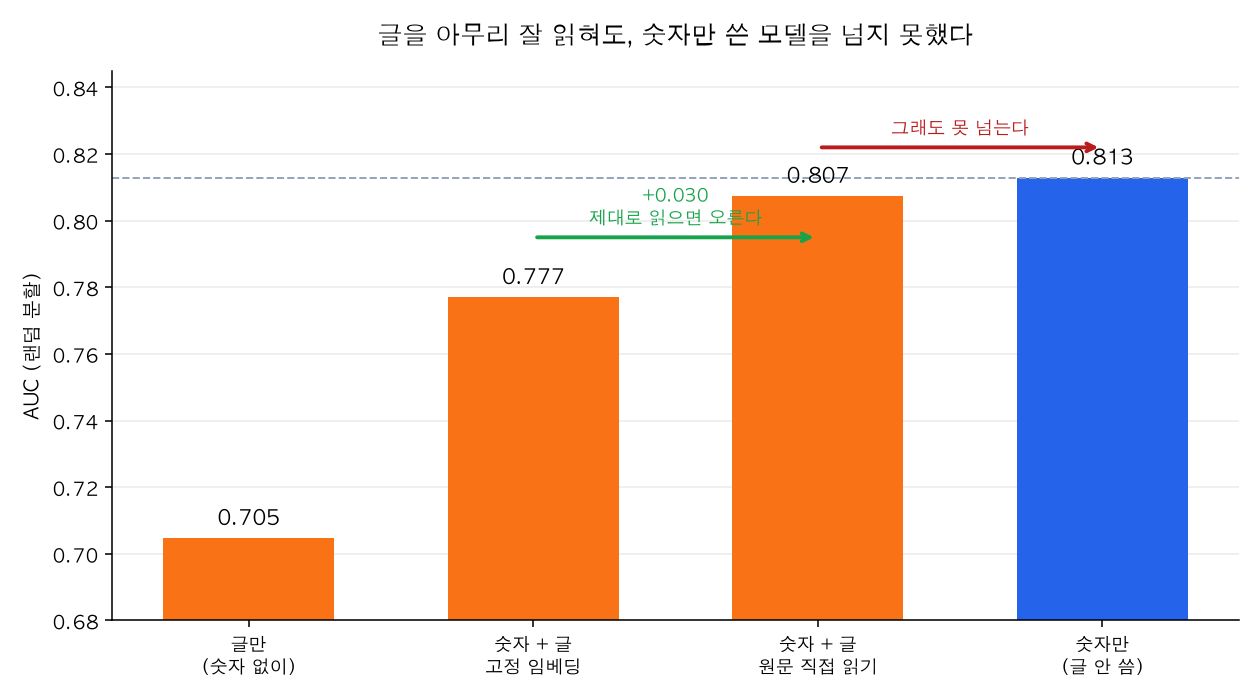
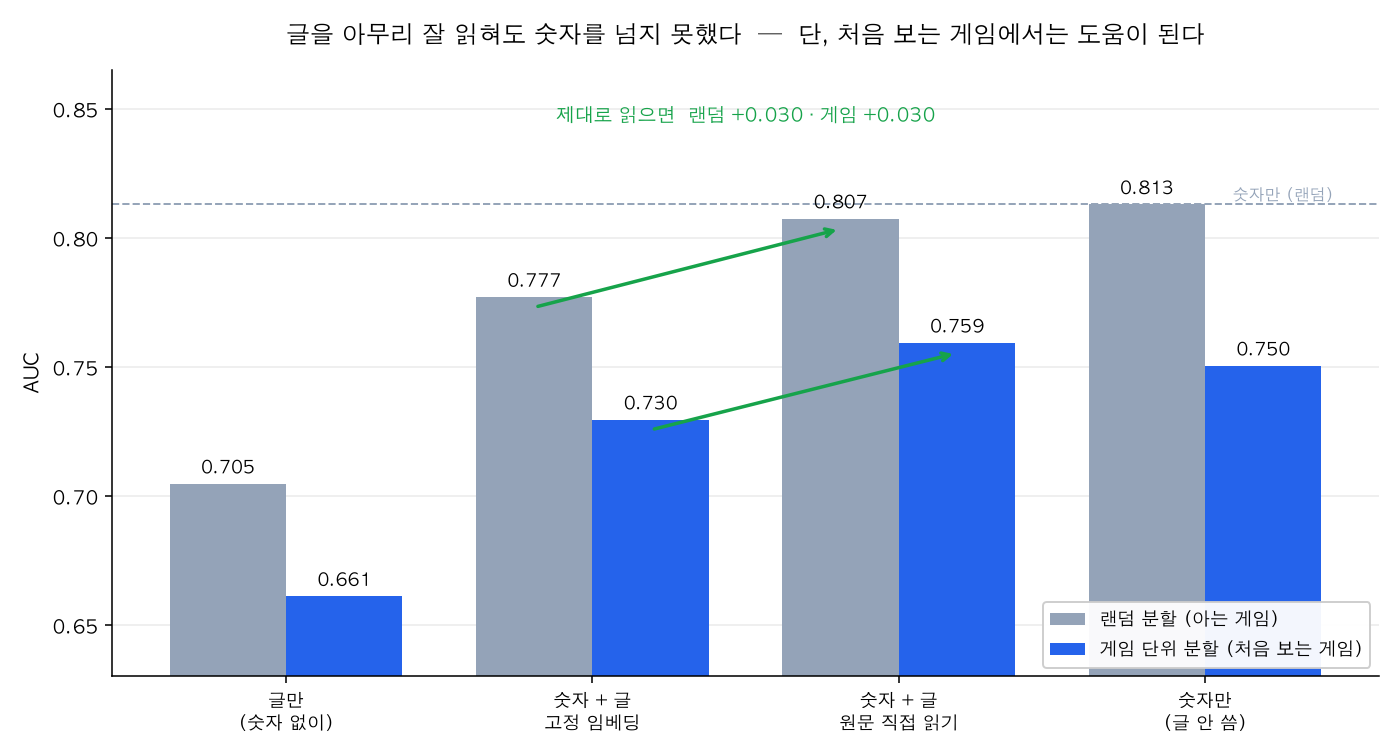
multimodal 게임분할 결과 반영 — 실험 완료
AutoGluon(multimodal) 게임분할 0.7593 ± 0.046 (코랩 T4, 5조각, 2.6시간)

세 가지가 한꺼번에 확인됐다
1. 고정 임베딩은 글을 덜 활용하고 있었다
     랜덤 0.777 -> 0.807  (+0.030)
     게임 0.730 -> 0.759  (+0.030)   두 분할에서 폭이 정확히 같다
2. 아는 게임에서는 여전히 숫자를 못 넘는다   0.807 < 0.813
3. 처음 보는 게임에서는 넘는다              0.759 > 0.750
   낙폭도 -0.048 로 숫자만(-0.063)보다 작다

4절 발견 3(말은 게임을 건너뛰어도 통한다)이 가장 좋은 텍스트 모델에서도
그대로 재현됐다. 결론이 한 단계 더 단단해졌다.

한계에서 'multimodal 은 랜덤분할만' 을 제거(이제 측정됨).
그림 05 를 두 분할 비교로 갱신.

diff --git a/src/figures.py b/src/figures.py
@@ -125,32 +125,34 @@ def fig_text_ladder():
     """
     import matplotlib.pyplot as plt
 
-    items = [
-        ("글만\n(숫자 없이)",            0.7047, C_TEXT),
-        ("숫자 + 글\n고정 임베딩",        0.7770, C_TEXT),
-        ("숫자 + 글\n원문 직접 읽기",     0.8074, C_TEXT),
-        ("숫자만\n(글 안 씀)",           0.8129, C_GROUP),
-    ]
-    names = [i[0] for i in items]; vals = [i[1] for i in items]; cols = [i[2] for i in items]
+    names = ["글만\n(숫자 없이)", "숫자 + 글\n고정 임베딩",
+             "숫자 + 글\n원문 직접 읽기", "숫자만\n(글 안 씀)"]
+    rand  = [0.7047, 0.7770, 0.8074, 0.8129]
+    grp   = [0.6611, 0.7295, 0.7593, 0.7504]
+    x = np.arange(len(names)); w = 0.38
 
-    fig, ax = plt.subplots(figsize=(9, 5))
-    bars = ax.bar(range(len(items)), vals, color=cols, width=.6)
-    for i, v in enumerate(vals):
-        ax.text(i, v + .004, f"{v:.3f}", ha="center", fontsize=11, fontweight="bold")
+    fig, ax = plt.subplots(figsize=(10, 5.4))
+    ax.bar(x - w/2, rand, w, label="랜덤 분할 (아는 게임)", color=C_RANDOM)
+    ax.bar(x + w/2, grp,  w, label="게임 단위 분할 (처음 보는 게임)", color=C_GROUP)
+    for i, (a_, b_) in enumerate(zip(rand, grp)):
+        ax.text(i - w/2, a_ + .004, f"{a_:.3f}", ha="center", fontsize=9)
+        ax.text(i + w/2, b_ + .004, f"{b_:.3f}", ha="center", fontsize=9)
 
-    ax.annotate("", xy=(2, 0.795), xytext=(1, 0.795),
-                arrowprops=dict(arrowstyle="->", color="#16a34a", lw=2))
-    ax.text(1.5, 0.799, "+0.030\n제대로 읽으면 오른다", ha="center", fontsize=9.5,
-            color="#16a34a")
-    ax.annotate("", xy=(3, 0.822), xytext=(2, 0.822),
-                arrowprops=dict(arrowstyle="->", color="#b91c1c", lw=2))
-    ax.text(2.5, 0.826, "그래도 못 넘는다", ha="center", fontsize=9.5, color="#b91c1c")
+    # 고정 임베딩 -> 원문 직접 읽기 : 두 분할에서 같은 폭으로 오른다
+    for off, vals, col in [(-w/2, rand, "#16a34a"), (w/2, grp, "#16a34a")]:
+        ax.annotate("", xy=(2 + off, vals[2] - .004), xytext=(1 + off, vals[1] - .004),
+                    arrowprops=dict(arrowstyle="->", color=col, lw=1.8))
+    ax.text(1.5, 0.845, "제대로 읽으면  랜덤 +0.030 · 게임 +0.030",
+            ha="center", fontsize=10, color="#16a34a", fontweight="bold")
 
     ax.axhline(0.8129, color="#94a3b8", ls="--", lw=1)
-    ax.set_xticks(range(len(items))); ax.set_xticklabels(names, fontsize=9.5)
-    ax.set_ylabel("AUC (랜덤 분할)"); ax.set_ylim(0.68, 0.845)
-    ax.set_title("글을 아무리 잘 읽혀도, 숫자만 쓴 모델을 넘지 못했다",
-                 fontsize=13, pad=14)
+    ax.text(3.42, 0.8145, "숫자만 (랜덤)", fontsize=8, color="#94a3b8", ha="right")
+
+    ax.set_xticks(x); ax.set_xticklabels(names, fontsize=9.5)
+    ax.set_ylabel("AUC"); ax.set_ylim(0.63, 0.865)
+    ax.set_title("글을 아무리 잘 읽혀도 숫자를 넘지 못했다  —  단, 처음 보는 게임에서는 도움이 된다",
+                 fontsize=12.5, pad=14)
+    ax.legend(loc="lower right", fontsize=9, framealpha=.95)
     ax.grid(axis="y", alpha=.25); ax.set_axisbelow(True)
     for s in ("top", "right"): ax.spines[s].set_visible(False)
     FIGURES.mkdir(parents=True, exist_ok=True)

diff --git a/docs/02_학습결과서.md b/docs/02_학습결과서.md
@@ -19,7 +19,7 @@
 |---|---|
 | 글에 신호가 있나? | **있다.** 글만 봐도 AUC 0.70 |
 | 그럼 숫자에 글을 더하면 오르나? | **거의 안 오른다.** 0.813 → 0.810 |
-| 글을 더 잘 읽히면? | **오르긴 한다** (0.777 → 0.807). **그래도 숫자(0.813)를 못 넘는다** |
+| 글을 더 잘 읽히면? | **두 분할 모두 +0.030.** 아는 게임에선 숫자를 못 넘지만(0.807<0.813), **처음 보는 게임에선 넘는다**(0.759>0.750) |
 | 왜 안 오르나? | 글이 아는 걸 **숫자가 이미 알고 있어서** |
 | 그럼 글은 쓸모없나? | **아니다.** 처음 보는 게임에서는 글이 이긴다 |
 | 모델은 뭘 보고 판단하나? | 글 > 장르 > 추천여부 > 리뷰 수 > 플레이 시간 (SHAP) |
@@ -282,38 +282,49 @@ Fitting with cpus=1, gpus=0
 
 리뷰 **원문**을 언어모델에 직접 읽히면, 미리 뽑아둔 고정 임베딩보다 나은가?
 
-비교 대상은 우리 **MLP(숫자+고정임베딩) 랜덤분할 0.777** 입니다.
-
-| 모델 | 글을 다루는 방식 | 랜덤분할 |
-|---|---|---|
-| MLP (숫자+글) | 미리 뽑은 임베딩 **고정** | 0.777 |
-| **AutoGluon (multimodal)** | 언어모델을 **우리 문제에 맞게 재학습** | **0.807** |
-| 우리 부스팅 (숫자만) | 글을 아예 안 씀 | **0.813** |
-
-**두 가지가 동시에 나왔습니다.**
-
-```
-원문 직접 읽기  vs  고정 임베딩      +0.030   ← 글을 제대로 읽으면 확실히 낫다
-원문 직접 읽기  vs  부스팅(숫자만)   −0.006   ← 그래도 숫자를 못 넘는다
-```
+| 모델 | 글을 다루는 방식 | 랜덤분할 | 게임 단위 |
+|---|---|---|---|
+| MLP (숫자+글) | 미리 뽑은 임베딩 **고정** | 0.777 | 0.730 ± 0.028 |
+| **AutoGluon (multimodal)** | 언어모델을 **재학습** | **0.807** | **0.759 ± 0.046** |
+| 우리 부스팅 (숫자만) | 글을 아예 안 씀 | 0.813 | 0.750 ± 0.041 |
 
 ![글을 읽는 방식](../reports/figures/05_글을읽는방식.png)
 
-**1) 고정 임베딩은 글을 덜 활용하고 있었습니다.**
-미리 뽑아둔 벡터를 그대로 쓰는 것보다, 언어모델을 우리 문제에 맞게 재학습하니
-**+0.030** 올랐습니다. 4절에서 "글을 더해도 안 오른다" 고 한 것은
-**일부는 임베딩을 고정한 탓**이었습니다.
+**세 가지가 한꺼번에 나왔습니다.**
 
-**2) 그런데 최선을 다해 읽혀도 숫자를 못 넘었습니다.**
-0.807 < 0.813. 차이 −0.006은 사실상 같은 수준입니다.
+**1) 고정 임베딩은 글을 덜 활용하고 있었습니다.**
+
+```
+랜덤 분할    0.777 → 0.807    +0.030
+게임 단위    0.730 → 0.759    +0.030
+```
+
+**두 분할에서 폭이 정확히 같습니다.** 우연이 아니라 재현되는 효과입니다.
+4절에서 "글을 더해도 안 오른다" 고 한 것은 **일부는 임베딩을 고정한 탓**이었습니다.
+
+**2) 그런데 아는 게임에서는 여전히 숫자를 못 넘었습니다.**
+
+```
+랜덤 분할    multimodal 0.807  <  부스팅(숫자만) 0.813    −0.006
+```
+
+**3) 처음 보는 게임에서는 넘었습니다.**
+
+```
+게임 단위    multimodal 0.759  >  부스팅(숫자만) 0.750    +0.009
+```
+
+낙폭도 **−0.048** 로 숫자만 쓴 부스팅(−0.063)보다 작습니다.
+**4절 발견 ③(말은 게임을 건너뛰어도 통한다)이 가장 좋은 텍스트 모델에서도 그대로 재현**됐습니다.
 
 > **이 실험이 값어치 있었던 이유** — 이 결과가 없었다면
 > **"임베딩을 대충 써서 안 오른 것 아니냐"** 는 반박에 답할 수 없었습니다.
-> 이제 답할 수 있습니다: **글을 가장 잘 읽는 방법으로 읽혀도, 숫자만 쓴 모델과 같았다.**
-> 우리 결론이 오히려 더 단단해졌습니다.
+> 이제 답할 수 있습니다:
+>
+> **글을 가장 잘 읽는 방법으로 읽혀도, 아는 게임에서는 숫자를 못 넘었다.**
+> **다만 처음 보는 게임에서는 글이 이겼다 — 그 방향은 더 뚜렷해졌다.**
 
-**측정 조건** — 코랩 T4 GPU, 30분 제한, 영어 67,112행, 랜덤 분할.
-게임 단위 분할은 5배 비용(2~3시간)이라 돌리지 않았습니다.
+**측정 조건** — 코랩 T4 GPU, 조각당 30분 제한, 영어 67,112행, 5조각(총 2.6시간).
 
 ### 부딪힌 문제 네 가지
 
@@ -392,7 +403,7 @@ predict_one(review="...", playtime_at_review_min=25, ...)
 | **근거 모델이 다름** | 확률은 신경망이 내고 근거(SHAP)는 트리 모델이 만듭니다. 두 모델의 성능이 거의 같아 결론은 공유되지만, 개별 리뷰에서 근거와 확률이 미세하게 어긋날 수 있습니다 |
 | **글 기여도의 해석** | SHAP에서 글이 1위지만, 이는 "모델이 많이 쓴다"는 뜻이지 "없으면 안 된다"는 뜻이 아닙니다 (6절 참조) |
 | **AutoGluon 은 메모리 제약 하에 측정** | 여유 메모리가 0.7GB뿐이라 AutoGluon이 스스로 모델을 축소했습니다(`n_estimators 300→222`). 제약이 없었다면 7절 점수가 조금 더 높았을 수 있습니다 |
-| **multimodal 은 랜덤분할만** | 게임 단위 분할은 5배 비용(코랩 GPU 2~3시간)이라 돌리지 않았습니다. "처음 보는 게임에서 원문 읽기가 유리한가" 는 미확인입니다 |
+| **multimodal 은 시간 예산 안에서만** | 조각당 30분으로 제한했습니다. 더 오래 학습하면 조금 더 올랐을 수 있습니다 |
 
 ---
 
